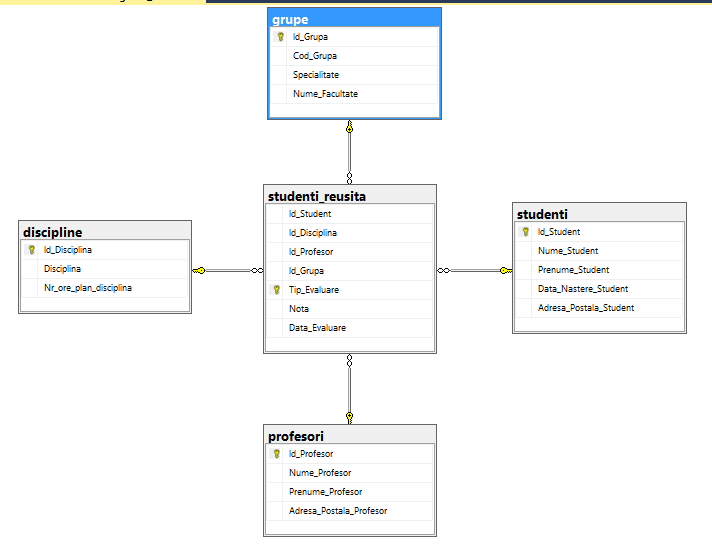
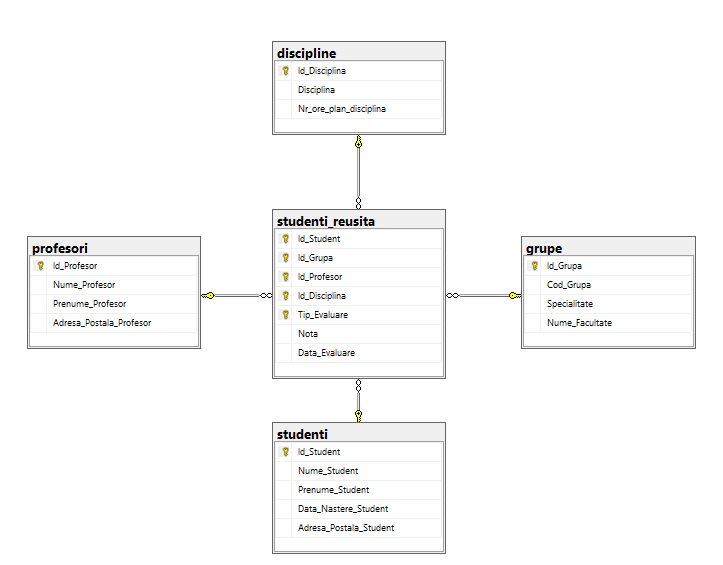
add lab7

Changed region(s): [[0.0, 0.0, 1.0, 1.0]]

diff --git a/Laboratory 7/lab7.md b/Laboratory 7/lab7.md
@@ -1,0 +1,162 @@
+# Laboratorul nr. 5
+
+## Transact-SQL: intructiuni procedurale
+
+
+Sarcini:
+
+1. Creati o diagrama a bazei de date, folosind fonna de vizualizare standard, structura careia este
+descrisa la inceputul sarcinilor practice din capitolul 4.
+
+Rezultat:
+
+![Task1](https://github.com/verasv81/DataBase/blob/master/Laboratory%207/images/Task-1.PNG)
+
+
+2. Sa se adauge constrangeri referentiale (legate cu tabelele studenti si profesori) necesare
+coloanelor Sef_grupa si Prof_Indrumator (sarcina3, capitolul 6) din tabelul grupe.
+
+
+Rezultat:
+
+![Task2](https://github.com/verasv81/DataBase/blob/master/Laboratory%207/images/Task-2.PNG)
+
+3. La diagrama construită, să se adauge și tabelul orarul definit în capitolul 6 al acestei lucrari:tabelul orarul conține identificatorul 
+disciplinei (ld_Disciplina), identificatorul profesorului(Id_Profesor) și blocul de studii (Bloc). Cheia tabelului este constituită din trei cîmpuri:
+identificatorul grupei (Id_ Grupa), ziua lectiei (Z1), ora de inceput a lectiei (Ora), sala unde are loc lectia (Auditoriu).
+
+Rezultat:
+
+![Task3](https://github.com/verasv81/DataBase/blob/master/Laboratory%207/images/Task-3.PNG)
+
+4. Tabelul orarul trebuie să conțină și 2 chei secundare: (Zi, Ora, Id_ Grupa, Id_ Profesor) și (Zi, Ora, ld_Grupa, ld_Disciplina).
+
+
+
+Rezultat:
+
+![Task4](https://github.com/verasv81/DataBase/blob/master/Laboratory%207/images/Task-4.PNG)
+
+
+5.  În diagrama, de asemenea, trebuie sa se defineasca constrangerile referentiale (FK-PK) ale atributelor ld_Disciplina, ld_Profesor, 
+Id_ Grupa din tabelului orarul cu atributele tabelelor respective.
+
+
+Rezultat:
+
+![Task5](https://github.com/verasv81/DataBase/blob/master/Laboratory%205/images/Task-5.PNG)
+
+
+6. Creați, în baza de date universitatea, trei scheme noi: cadre_didactice, plan_studii și studenti. 
+Transferați tabelul profesori din schema dbo in schema cadre didactice, ținînd cont de dependentele definite asupra tabelului menționat. 
+În același mod să se trateze tabelele orarul,discipline care aparțin schemei plan_studii și 
+tabelele studenți, studenti_reusita, care apartin schemei studenti. Se scrie instructiunile SQL respective.
+
+Interogare:
+``` sql
+use universitatea
+GO
+CREATE SCHEMA cadre_didactice;
+GO
+ALTER SCHEMA cadre_didactice TRANSFER dbo.profesori
+
+GO
+CREATE SCHEMA plan_studii;
+GO
+ALTER SCHEMA plan_studii TRANSFER dbo.orarul
+ALTER SCHEMA plan_studii TRANSFER dbo.discipline
+
+GO
+CREATE SCHEMA studenti;
+GO
+ALTER SCHEMA studenti TRANSFER dbo.studenti
+ALTER SCHEMA studenti TRANSFER dbo.studenti_reusita
+```
+
+Rezultat:
+
+![Task6](https://github.com/verasv81/DataBase/blob/master/Laboratory%205/images/Task-6.PNG)
+
+
+7. Modificati 2-3 interogari asupra bazei de date universitatea prezentate in capitolul 4 astfel ca numele tabelelor 
+accesate sa fie descrise in mod explicit, ținînd cont de faptul ca tabelele au fost mutate in scheme noi.
+Interogarare:
+
+``` sql
+/*19. Gasiti numele si prenumele profesorilor, care au predat discipline, in care studentul "Cosovanu" a
+fost respins (nota <5) la cel putin o proba.*/
+
+select cadre_didactice.profesori.Nume_Profesor,cadre_didactice.profesori.Prenume_Profesor 
+from cadre_didactice.profesori where exists
+	(select studenti.studenti_reusita.Id_Disciplina 
+	from studenti.studenti_reusita 
+	where studenti.studenti_reusita.Nota<5 and studenti.studenti_reusita.Id_Student=
+		(select studenti.studenti.Id_Student 
+		from studenti.studenti 
+		where studenti.studenti_reusita.Id_Student=studenti.studenti.Id_Student 
+		and studenti.studenti.Nume_Student='Cosovanu'))
+
+
+/*24. Sa se afisase lista disciplinelor (Disciplina) predate de cel putin doi profesori. */
+select Disciplina from plan_studii.discipline as ds 
+	where 
+	(select count(distinct sr.Id_Profesor) from studenti.studenti_reusita sr
+	inner join cadre_didactice.profesori as pr on sr.Id_Profesor=pr.Id_Profesor
+	where sr.Id_Disciplina=ds.Id_Disciplina
+	)>1
+```
+
+Rezultat:
+
+![Task7-1](https://github.com/verasv81/DataBase/blob/master/Laboratory%205/images/Task-7(1).PNG)
+![Task7-2](https://github.com/verasv81/DataBase/blob/master/Laboratory%205/images/Task-7(2).PNG)
+
+
+8. Creați sinonimele respective pentru a simplifica interogările construite în exercițiul precedent și reformulați interogările, 
+folosind sinonimele create.
+
+Interogare:
+
+``` sql
+/*19. Gasiti numele si prenumele profesorilor, care au predat discipline, in care studentul "Cosovanu" a
+fost respins (nota <5) la cel putin o proba.*/
+
+GO
+CREATE SYNONYM studenti1 FOR
+studenti.studenti
+
+GO 
+CREATE SYNONYM studenti_reusita1 FOR 
+studenti.studenti_reusita
+
+GO
+CREATE SYNONYM profesori1 FOR
+cadre_didactice.profesori;
+
+select Nume_Profesor,Prenume_Profesor 
+from profesori1 where exists
+	(select Id_Disciplina from studenti_reusita1 
+	where Nota<5 and Id_Student=
+		(select Id_Student from studenti1 
+		where studenti_reusita1.Id_Student=studenti1.Id_Student 
+		and studenti1.Nume_Student='Cosovanu'))
+
+
+/*24. Sa se afisase lista disciplinelor (Disciplina) predate de cel putin doi profesori. */
+
+GO
+CREATE SYNONYM disciplina1 FOR
+plan_studii.discipline;
+
+select Disciplina from disciplina1 as ds 
+	where 
+	(select count(distinct sr.Id_Profesor) from studenti_reusita1 sr
+	inner join profesori1 as pr on sr.Id_Profesor=pr.Id_Profesor
+	where sr.Id_Disciplina=ds.Id_Disciplina
+	)>1 
+```
+
+Rezultat:
+
+![Task8-1](https://github.com/verasv81/DataBase/blob/master/Laboratory%205/images/Task-8(1).PNG)
+![Task8-2](https://github.com/verasv81/DataBase/blob/master/Laboratory%205/images/Task-8(2).PNG)
